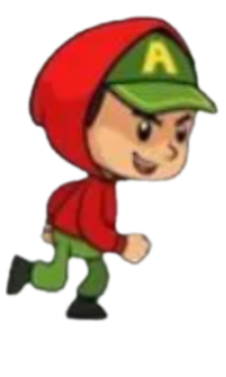
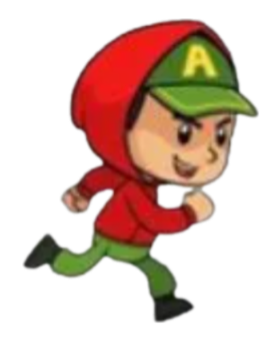
changed targets fps from 4 -> 6

diff --git a/game.py b/game.py
@@ -151,8 +151,8 @@ class Player(pygame.sprite.Sprite):
     def __init__(self):
         super().__init__()
         # Tải hình ảnh cho các trạng thái
-        self.idle_images = [pygame.transform.scale(pygame.image.load(f'assets/move/player_idle_{i}.png').convert_alpha(), (65, 53)) for i in range(4)]  # 4 frame idle
-        self.moving_images = [pygame.transform.scale(pygame.image.load(f'assets/move/player_move_{i}.png').convert_alpha(), (65, 53)) for i in range(4)]  # 4 frame moving
+        self.idle_images = [pygame.transform.scale(pygame.image.load(f'assets/move/player_idle_{i}.png').convert_alpha(), (65, 53)) for i in range(4)]  # 6 frame idle
+        self.moving_images = [pygame.transform.scale(pygame.image.load(f'assets/move/player_move_{i}.png').convert_alpha(), (65, 53)) for i in range(6)]  # 6 frame moving
         self.current_frame = 0
         self.animation_speed = 0.1
         self.image = self.idle_images[self.current_frame]
@@ -236,14 +236,14 @@ class Target(pygame.sprite.Sprite):
         super().__init__()
         # Thêm hình ảnh animation idle và moving
         self.idle_images = [pygame.transform.scale(pygame.image.load(f'assets/target_move/target_idle_{i}.png').convert_alpha(), (50, 65)) for i in range(4)]
-        self.moving_images = [pygame.transform.scale(pygame.image.load(f'assets/target_move/target_move_{i}.png').convert_alpha(), (50, 65)) for i in range(4)]
+        self.moving_images = [pygame.transform.scale(pygame.image.load(f'assets/target_move/target_move_{i}.png').convert_alpha(), (50, 65)) for i in range(6)]
 
         self.current_frame = 0
         self.animation_speed = 0.1
         self.image = self.idle_images[self.current_frame]  # Bắt đầu với trạng thái idle
         self.rect = self.image.get_rect()
         self.rect.center = (x, y)
-        self.max_speed = 2  # mục tiêu di chuyển chậm hơn mục tiêu
+        self.max_speed = 3  # mục tiêu di chuyển chậm hơn mục tiêu
         self.acceleration = 0.2
         self.velocity = pygame.Vector2(0, 0)
         self.is_active = False
@@ -341,7 +341,7 @@ class Target(pygame.sprite.Sprite):
 class PatrollingTarget(Target):
     def __init__(self, x, y, patrol_points):
         super().__init__(x, y )
-        self.run_images = [pygame.transform.scale(pygame.image.load(f'assets/patrolling_move/patrolling_{i}.png').convert_alpha(), (60, 70)) for i in range(4)]
+        self.run_images = [pygame.transform.scale(pygame.image.load(f'assets/patrolling_move/patrolling_{i}.png').convert_alpha(), (60, 70)) for i in range(6)]
         self.animation_speed = 100
         self.current_frame = 0
         self.last_update = 0
@@ -405,7 +405,7 @@ class DistractedTarget(Target):
         super().__init__(x, y)
         # them anh animation idle, move, stop
         self.idle_image = [pygame.transform.scale(pygame.image.load(f'assets/distracted_move/distracted_idle_{i}.png').convert_alpha(), (50, 65)) for i in range(4)]
-        self.move_image = [pygame.transform.scale(pygame.image.load(f'assets/distracted_move/distracted_move_{i}.png').convert_alpha(), (50, 65)) for i in range(4)]
+        self.move_image = [pygame.transform.scale(pygame.image.load(f'assets/distracted_move/distracted_move_{i}.png').convert_alpha(), (50, 65)) for i in range(6)]
         self.stop_image = [pygame.transform.scale(pygame.image.load(f'assets/distracted_move/distracted_stop_{i}.png').convert_alpha(), (50, 65)) for i in range(3)]
 
         self.current_frame = 0
